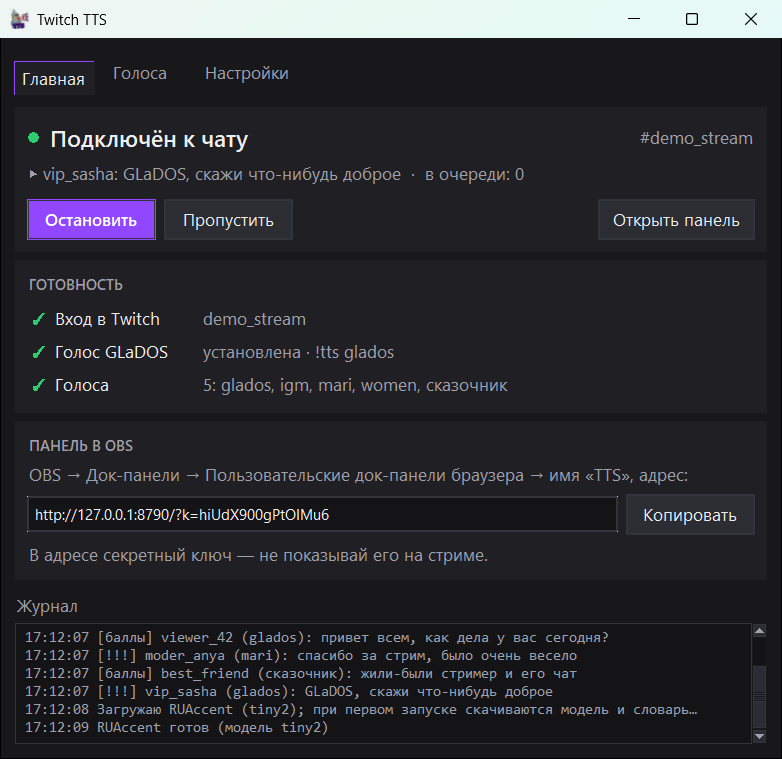
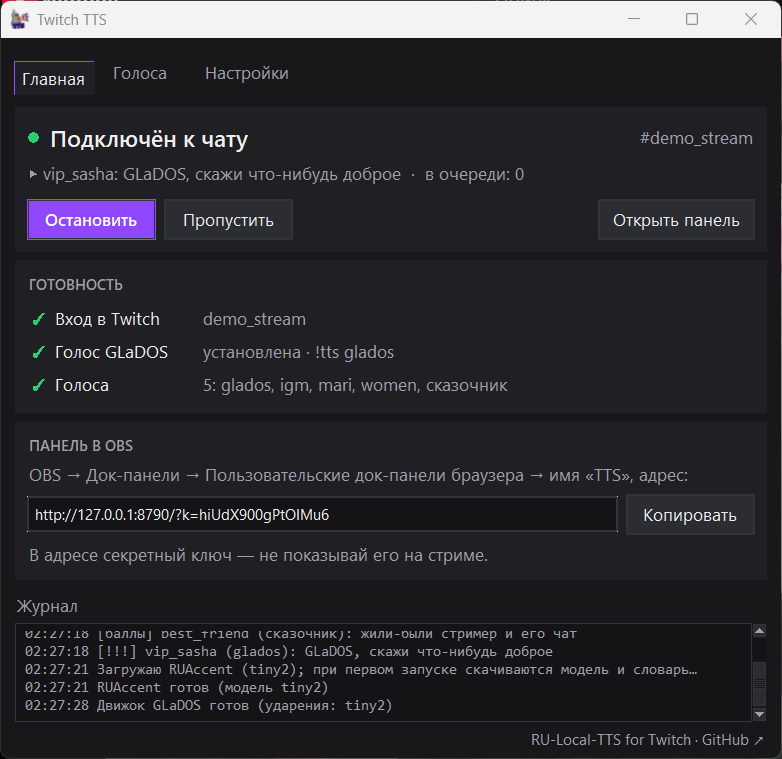
Ссылка на GitHub в окнах программы и в панели OBS
Строка «RU-Local-TTS for Twitch · GitHub» внизу главного окна (на всех вкладках),
в окне выбора голосов и внизу панели OBS. Док OBS сам ссылки не открывает,
поэтому щелчок в панели просит программу открыть обычный браузер.
Скриншоты главного окна, голосов, настроек и пульта панели пересняты.

diff --git a/panel_html.py b/panel_html.py
@@ -46,6 +46,8 @@ input[type=range]{width:100%;accent-color:var(--acc)}
 .chip button:hover{color:var(--bad)}
 details summary{cursor:pointer;color:var(--mut);margin-top:8px}
 #log{font:11px/1.5 ui-monospace,Consolas,monospace;color:var(--mut);max-height:60vh;overflow:auto;white-space:pre-wrap}
+#gh{display:block;text-align:center;color:var(--mut);font-size:11px;margin:4px 0 8px;text-decoration:none}
+#gh:hover{color:var(--acc-hi)}
 #msg{position:fixed;left:8px;right:8px;bottom:8px;background:var(--acc);color:#fff;padding:8px 12px;border-radius:6px;opacity:0;transition:opacity .2s;pointer-events:none;z-index:3}
 </style></head><body>
 
@@ -140,6 +142,7 @@ details summary{cursor:pointer;color:var(--mut);margin-top:8px}
 <section class="pane" id="p-log">
   <div class="card"><div id="log"></div></div>
 </section>
+<a id="gh" href="https://github.com/Koty9n/RU-Local-TTS-for-Twitch-" target="_blank" rel="noopener">RU-Local-TTS for Twitch · GitHub ↗</a>
 <div id="msg"></div>
 
 <script>
@@ -157,6 +160,9 @@ async function call(body){
   try{ const j = await post(body); toast(j.msg || (j.ok ? '' : 'Ошибка')); refresh(); return j; }
   catch(e){ toast('Нет связи с приложением'); }
 }
+
+// ---- ссылка на GitHub: док OBS сам ссылки не открывает — просим программу открыть обычный браузер
+$('gh').onclick = e => { e.preventDefault(); call({action:'github'}); };
 
 // ---- вкладки (выбранная запоминается в этом браузере)
 function tab(t){

diff --git a/ui_theme.py b/ui_theme.py
@@ -1,5 +1,9 @@
 """Тёмная тема окон Twitch TTS (окно программы и выбор голосов). Только tkinter, без сторонних библиотек."""
+import tkinter as tk
+import webbrowser
 from tkinter import ttk
+
+GITHUB = "https://github.com/Koty9n/RU-Local-TTS-for-Twitch-"   # то же в tts_core.py (для панели OBS)
 
 # цвета — те же, что у панели OBS (panel_html.py), чтобы окна и док выглядели одной программой
 C = {"bg": "#18181b", "card": "#202024", "field": "#141417", "btn": "#2c2c33", "line": "#33333b",
@@ -51,6 +55,16 @@ def apply_theme(root):
     root.option_add("*TCombobox*Listbox.foreground", C["fg"])
     root.option_add("*TCombobox*Listbox.selectBackground", C["acc"])
     root.option_add("*TCombobox*Listbox.selectForeground", "#ffffff")
+
+
+def github_link(parent, bg=None):
+    """Строка-ссылка на страницу проекта: серая, при наведении фиолетовая, щелчок открывает браузер."""
+    lbl = tk.Label(parent, text="RU-Local-TTS for Twitch · GitHub ↗", bg=bg or C["bg"], fg=C["mut"],
+                   font=("Segoe UI", 9), cursor="hand2")
+    lbl.bind("<Button-1>", lambda e: webbrowser.open(GITHUB))
+    lbl.bind("<Enter>", lambda e: lbl.config(fg=C["acc_hi"]))
+    lbl.bind("<Leave>", lambda e: lbl.config(fg=C["mut"]))
+    return lbl
 
 
 def card(parent, **pack):

diff --git a/tts_core.py b/tts_core.py
@@ -17,6 +17,7 @@ import time
 import urllib.error
 import urllib.parse
 import urllib.request
+import webbrowser
 from collections import OrderedDict, deque
 from pathlib import Path
 
@@ -36,6 +37,7 @@ def app_dir():
 
 BASE = app_dir()
 DATA = BASE / "data"
+GITHUB = "https://github.com/Koty9n/RU-Local-TTS-for-Twitch-"   # страница проекта (то же в ui_theme.py)
 VOICES_DIR = BASE / "voices"
 CONFIG_PATH = BASE / "config.json"
 DATA.mkdir(exist_ok=True)
@@ -1558,7 +1560,10 @@ class Bot:
     def do_action(self, a):
         act = a.get("action")
         val = str(a.get("value", "")).strip()
-        if act == "skip":
+        if act == "github":
+            webbrowser.open(GITHUB)
+            return "Открываю GitHub в браузере"
+        elif act == "skip":
             self.player.skip.set()
         elif act == "clear":
             self.player.clear()

diff --git a/tts_app.py b/tts_app.py
@@ -16,7 +16,7 @@ import twitch_auth
 from panel_server import start_panel
 
 import voice_picker
-from ui_theme import C, FONT, FONT_B, MONO, apply_theme, card
+from ui_theme import C, FONT, FONT_B, MONO, apply_theme, card, github_link
 
 STATUS = {
     "connected": ("Подключён к чату", C["ok"]),
@@ -58,8 +58,9 @@ class TTSWindow:
         self.root.minsize(680, 640)
         self.root.protocol("WM_DELETE_WINDOW", self.on_close)
 
+        github_link(self.root).pack(side="bottom", anchor="e", padx=14, pady=(2, 6))   # видна на всех вкладках
         nb = ttk.Notebook(self.root)
-        nb.pack(fill="both", expand=True, padx=12, pady=12)
+        nb.pack(fill="both", expand=True, padx=12, pady=(12, 0))
         self.build_home(nb)
         self.build_voices(nb)
         self.build_settings(nb)

diff --git a/voice_picker.py b/voice_picker.py
@@ -8,7 +8,7 @@ import tkinter as tk
 from pathlib import Path
 from tkinter import ttk
 
-from ui_theme import C, FONT, FONT_B, apply_theme
+from ui_theme import C, FONT, FONT_B, apply_theme, github_link
 
 GLADOS = "GLaDOS"
 PIPER_MB = 61
@@ -96,6 +96,7 @@ class Picker:
         self.btn_go.pack(side="right")
         self.btn_all = ttk.Button(bt, text="Все", command=self.toggle_all)
         self.btn_all.pack(side="right", padx=8)
+        github_link(bt).pack(side="left")
         self.refresh()
         w.bind("<Return>", lambda e: self.go())
         w.bind("<Escape>", lambda e: self.close())
